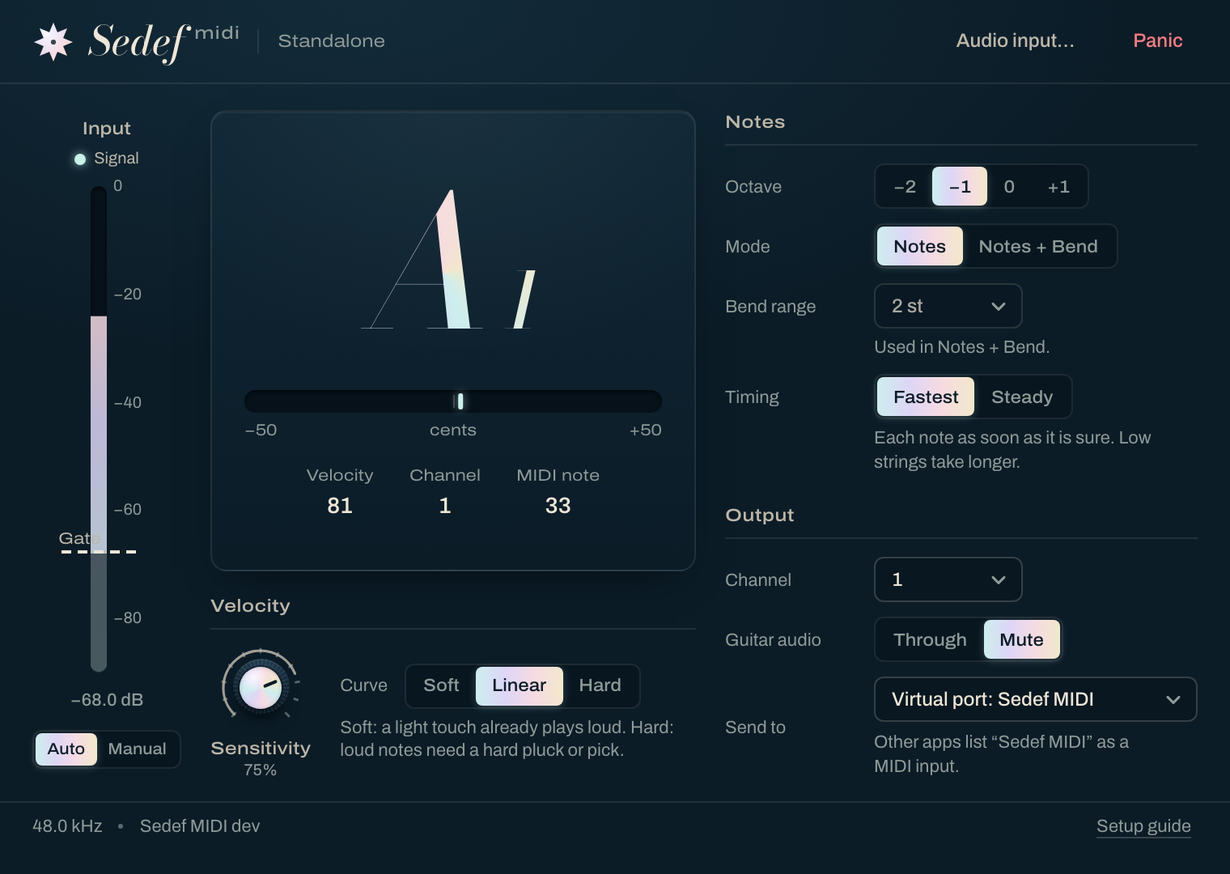
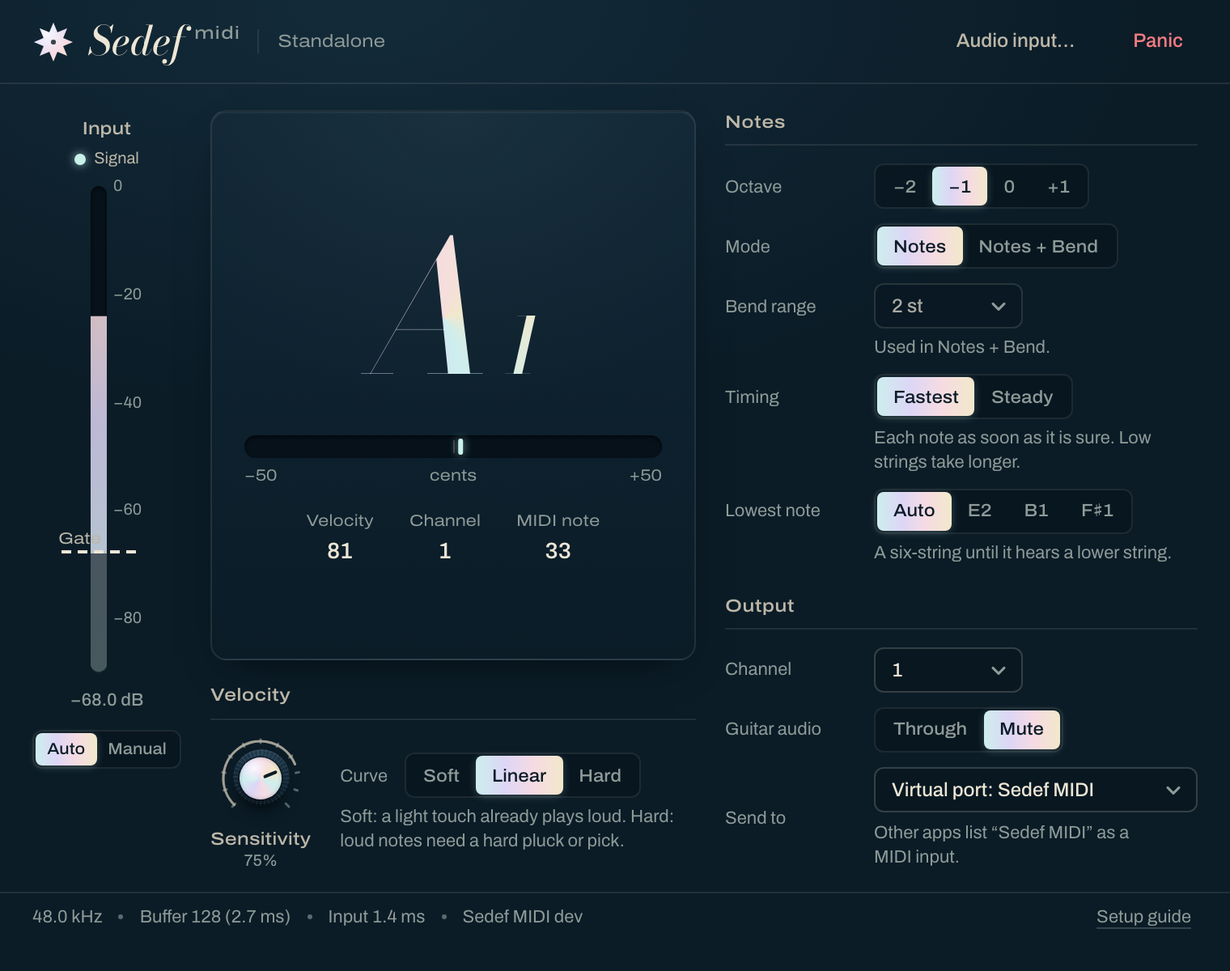
Docs: Sedef MIDI's held notes, bends and slides, low strings and the delay

diff --git a/docs/design/guitar-to-midi.md b/docs/design/guitar-to-midi.md
@@ -775,3 +775,234 @@ strum, median 2; one under 40 ms), none before the first strum, never two at onc
 **Left open:** the first note after Sedef MIDI starts (60 ms, once per session); fretting moves on
 strings still within 10 dB of their attack; and in Steady, a note whose ringing string the finger
 touches before plucking lands up to 16 ms early.
+
+### The first session: a held note, low strings, bends and the delay (2026-11-11)
+
+The musician played 0.6.0's standalone app into a bass instrument and reported, in his order of
+importance: too much delay; no note under a low B; a held note wavers in pitch, like a chorus;
+bends only half work and slides don't. He had sent a screen recording with the instrument's
+sound. In it Sedef MIDI was on Notes + Bend, octave 0, Fastest (read from which segments are
+lit: the labels are too small to read). His recordings stay off the repository.
+
+#### A held note
+
+**What the recording shows.** The instrument's pitch on ten held notes (31 to 83 Hz, the
+instantaneous frequency of their first four partials): a modulation of 3.65 to 3.66 Hz, ±12 to
+14 cents, the same rate at every pitch and the same depth on every partial (a pitch modulation,
+not two detuned voices), undamped for three seconds, and starting again with each note (its
+first peak 70 to 140 ms after the note starts, on about 40 notes). Every note also sits 15 to
+35 cents sharp, and a few start in tune for 50 to 90 ms and then jump there.
+
+**What Sedef MIDI sent.** Notes + Bend sent the tracked pitch's distance from the equal-tempered
+note, every 2 ms, whenever it moved 1.5 cents. On his chromatic DI that is 9629 pitch bends for
+84 notes, 194 a second: each note starts with its own offset (median 7 cents, up to 38: tuning
+and fretting), drifts as it decays, steps by more than 5 cents six times a note (the tracker
+changes the source of its reading once a note holds still), and swings 50 to 75 cents at its end
+when the fretting hand moves on. On his three long notes (2.0 to 2.6 s) the bend, after the
+first 100 ms, has a standard deviation of 1.7 to 3.9 cents and nothing near 3.66 Hz; a perfectly
+steady synthetic string gets one step of 6 to 10 cents about 100 ms in. Short notes started
+again inside a held note, the other suspect, do not occur: Notes mode gives 84 notes for 78, the
+five short ones all a fretting move before a pluck.
+
+**The cause.** A rate that ignores the note and restarts with each note is an oscillator in the
+instrument, not anything in the pitch stream (nothing in Sedef MIDI has a 273 ms clock). What
+fits all of it is an instrument that takes a pitch wheel off centre as a played bend and adds a
+bend and vibrato of its own; Sedef MIDI never left the wheel centred. That cannot be proved
+without the instrument, and does not need to be: a held note has no business sending pitch
+bend, and in Notes mode, the default, none was ever sent.
+
+**The fix** (the class comment in `GuitarToMidi.h` has the rules). A centred bend goes out with
+every note-on, and the wheel stays at exactly the centre while a note is only held. The bend is
+counted from where the note sits, not from equal temperament: the note's centre is its reading
+over its first 30 ms, then follows the string's slow drift at 20 cents a second, within 35 cents
+of the semitone. A bend starts when the pitch has been 25 cents from the centre for 40 ms (or 60
+cents, followed all the way), then follows the string at up to 3000 cents a second, ignoring
+moves of the reading under 3 cents; it ends, exactly centred, back within 10 cents for 60 ms or
+at rest within a fret's tuning of the semitone. The pitch the bend follows is the tracker's
+estimator reading (`MonoTracker::followedHz()`), which has no step when a note holds still.
+
+Why 25 cents: on his chromatic DI, 74 held notes, the pitch is within 1.6 cents of the note's
+centre half of the time, 5.8 cents 90 % and 16.4 cents 99 % of it; 4 % of the notes pass 25
+cents in their first 100 ms and 4 % while held, all of them fretting moves, which the 40 ms and
+the falling level rule out. The drift from the start of a hold to its end is −2.3 cents in the
+median and −10.9 at the 10th percentile, which is what the moving centre is for.
+
+| Notes + Bend, pitch bends off centre | 0.7.0 | Now |
+|---|---:|---:|
+| His chromatic DI (84 notes) | 9629 | 0 |
+| The same, a fourth and a minor sixth lower | | 0 and 6 |
+| His strummed chords (28 notes) | 829 | 0 |
+| Seven piezo DIs, fingerstyle chords (about 400 notes) | 13 169 | 355 |
+| Held synthetic strings, 3 s: drift of 0 and −5 cents/s, tuned −12 and +18 cents, four pitches, three pickups | every one | 0 |
+
+In Notes mode his chromatic DI gives the same events as 0.7.0, byte for byte.
+
+#### Bends and slides
+
+What each does, and why slides are not pitch bend:
+
+| | Notes | Notes + Bend |
+|---|---|---|
+| Held note, narrow vibrato (±15 cents) | note-on, note-off | the same, and a centred bend before the note-on |
+| String bend inside the bend range | the notes it passes | one note; the bend follows, and returns to exactly the centre |
+| String bend past the range | the notes it passes | the next note starts, without a gap |
+| Wide vibrato (±50 cents) | one note | followed |
+| Hammer-on, pull-off | a note | a note |
+| Slide | its frets: the first reached, then only frets held 30 ms, so a fast slide is two notes and a slow one every fret | the same |
+
+Measured on synthetic strings (E2, A2, G3): bends of a semitone in 80 to 600 ms and of a whole
+step in 150 to 600 ms, held and released, are one note each; what sounds is within 27 cents of
+the string (allowing 60 ms), 5.8 cents rms at worst; no message moves the bend more than 6
+cents; a held bend is exact to 3 cents and a released one ends at exactly 0. A whole step in
+80 ms moves too fast to tell from a fret taken at once and comes out as notes. Slides over 2, 5
+and 12 frets at 15 to 120 ms a fret: never two note-ons closer than 25 ms after the first fret,
+the last note always the fret the slide stopped on, no gap.
+
+A fret taken at once is a note in both modes. Turning it into a bend was built and measured: on
+the bass lines 13 % of the notes (later 3 %, with every cue that could be found: the level's dip
+before a pluck, the pick's click, the level's continuity) lost their attack, because a softly
+picked note on the same string looks the same. That is worse than a slide played as notes.
+
+#### Down to F♯1
+
+"A low B gives B, a low A gives nothing" was one constant: `kMinNoteHz`, 60 Hz. Under it, the
+tracker looked no lower than 50 Hz, and the waits that rule out a lower note assumed a
+six-string.
+
+`Settings::lowNote` (the parameter Lowest Note, appended) has three ranges and Automatic:
+
+| Range | Lowest string | Plays down to | The tracker looks down to | Its rumble filter |
+|---|---|---|---|---|
+| E2 | 82.4 Hz | 60 Hz | 50 Hz | 40 Hz |
+| B1 | 61.7 Hz | 50 Hz | 46 Hz | 30 Hz |
+| F♯1 | 46.2 Hz | 39.5 Hz | 38 Hz | 22 Hz |
+
+The E2 range is 0.7.0, exactly. A lower range costs the notes above something, so it is not
+always on: a first reading can name any partial of a low string, so a note above the lowest
+string's octave must wait one period of that string, unless it alone accounts for the signal
+since the pick (99 % of it repeats at the note's period), which a cleanly played note does.
+Three more things were needed, each found on the lowered sets below: a note above the lowest
+string's octave must account for the signal since the pick, not only for its own last period (a
+low string picked again made the tracker read one partial after another for 45 ms); the longer
+period is compared with the note's own on the residual each leaves, the note's period taken
+exactly (a low string whose 4th partial is its strongest repeats 97 % at that partial's
+period); and a low string's 3 ms level swings 10 to 20 dB with every period, which read as a
+mute (his lowered DI: a low F♯ of one second came out as two notes of 14 ms), so a string under
+the low E is as loud as the loudest millisecond of its last period.
+
+**Automatic** (the default) is the E2 range, with the tracker looking down to 38 Hz, until a note
+under the range has sounded for 150 ms; then it is the B1 or the F♯1 range, kept across
+`reset()` and `prepare()` and saved with a host's session. Before it has learned, a note under
+60 Hz needs a third period (two strings ringing together repeat at such a period for a moment:
+two notes of 15 ms on the sloppy lines without it). On a six-string it sends the notes the E2
+range sends, 493 of 494 within 3 ms of where that range puts them, and never widens, on the
+lines, the sloppy lines, the fretted-first runs and the strummed chords.
+
+There is no DI of his low strings, so the material is the suite's lines on strings a fourth lower
+(B1, E2, A2 where a guitar has E2, A2, D3) and a minor seventh lower (F♯1, B1, E2), and his own
+chromatic DI slowed down by a fourth and by a minor sixth (its lowest run then starts on A1 and
+on F♯1), against the six-string bars:
+
+| Set | Range | Notes | Right | Wrong (octave) | Missed | Extra | Under 40 ms |
+|---|---|---:|---:|---:|---:|---:|---:|
+| Bass lines, a fourth lower | B1 | 864 | 100 % | 0 | 0 | 1 | 1 |
+| Sloppy lines, a fourth lower | B1 | 864 | 98.84 % | 3 (0) | 7 | 11 | 11 |
+| Fretted first, a fourth lower | B1 | 312 | 100 % | 0 | 0 | 0 | 0 |
+| From silence, a fourth lower | B1 | 108 | 98.15 % | 0 | 2 | 0 | 0 |
+| Bass lines, a seventh lower | F♯1 | 864 | 99.88 % | 0 | 1 | 0 | 0 |
+| Sloppy lines, a seventh lower | F♯1 | 864 | 98.61 % | 4 (0) | 8 | 17 | 12 |
+| Fretted first, a seventh lower | F♯1 | 312 | 100 % | 0 | 0 | 0 | 0 |
+| From silence, a seventh lower | F♯1 | 108 | 100 % | 0 | 0 | 0 | 0 |
+| Bass lines, a seventh lower | Automatic, from a six-string each time | 864 | 99.77 % | 0 | 2 | 3 | 2 |
+| Sloppy lines, a seventh lower | Automatic, the same | 864 | 98.50 % | 4 (0) | 9 | 18 | 13 |
+| His chromatic DI, a fourth lower, Fastest / Steady | Automatic | 78 | 100 % / 100 % | 0 | 0 | 6 / 2 | 4 / 0 |
+| His chromatic DI, a minor sixth lower, Fastest / Steady | Automatic | 78 | 100 % / 100 % | 0 | 0 | 7 / 3 | 4 / 0 |
+
+(The two notes missed from silence a fourth lower are one note on two pickups: the finger's
+touch squeaks 9 ms before the pluck, and the pick seen there is judged before the pluck's level
+has come. The extra notes on his lowered DI are the fretting moves of the original.) Before:
+nothing under B1 was played, in any setting.
+
+Pick to note-on, a note picked a second time, with a pick and with the fingers, on a bridge and
+a neck pickup, median (and the most), 48 kHz:
+
+| Note | Two periods | E2 range | B1 range | F♯1 range |
+|---|---:|---:|---:|---:|
+| F♯1 | 43.2 ms | | | 47.0 (49.5) |
+| G1 | 40.8 | | | 44.5 (48.0) |
+| G♯1 | 38.5 | | 42.5 (45.0) | 42.5 (45.0) |
+| A1 | 36.4 | | 39.5 (43.0) | 40.0 (43.0) |
+| A♯1 | 34.3 | | 38.0 (41.0) | 37.5 (41.0) |
+| B1 | 32.4 | 35.5 (38.0) | 36.5 (39.0) | 35.5 (39.0) |
+| C2 | 30.6 | 33.5 (37.0) | 34.5 (37.0) | 33.5 (37.0) |
+| C♯2 | 28.9 | 33.0 (35.5) | 33.0 (35.5) | 32.0 (35.5) |
+| D2 | 27.2 | 31.0 (34.0) | 31.0 (34.0) | 30.5 (34.0) |
+| D♯2 | 25.7 | 29.5 (32.5) | 29.0 (31.5) | 29.0 (31.5) |
+| E2 | 24.3 | 27.5 (31.0) | 27.5 (30.0) | 27.5 (30.0) |
+| F♯2 | 21.6 | 25.5 (28.0) | 24.5 (28.0) | 27.0 (27.0) |
+| A2 | 18.2 | 21.5 (24.0) | 21.5 (24.0) | 27.0 (27.0) |
+| B2 | 16.2 | 19.5 (22.0) | 21.5 (22.0) | 22.0 (27.0) |
+| C♯3 | 14.4 | 17.5 (20.0) | 20.0 (21.5) | 20.0 (22.5) |
+| D3 | 13.6 | 17.0 (19.5) | 17.5 (21.0) | 17.5 (21.0) |
+| E3 | 12.1 | 16.0 (18.0) | 16.5 (18.0) | 16.5 (18.0) |
+| G3 to E4 | 10.2 to 6.1 | 16.0 | 16.0 | 16.0 |
+
+So the low ranges cost E2 nothing, the notes from F♯2 to C♯3 up to 5.5 ms (A2 in the F♯1 range),
+and nothing above E3. In the E2 range and in Automatic on a six-string, every figure is 0.7.0's.
+
+Trench shares the tracker. Its new options (`lowestHz`, `rumbleHz`) are off by default and the
+`followedHz()` accessor changes nothing: 137 renders (every factory preset, Trench Mono and Poly
+in four settings on the synthetic DI and seven piezo DIs, and his two DIs in Mono and Poly, two
+settings, alone and through two presets) are byte-identical to main.
+
+#### The delay
+
+His setup, a low E, Fastest, as he ran 0.6.0:
+
+| Part | Before | Now | Whose |
+|---|---:|---:|---|
+| The note's pitch: two periods of the low E, and 3 ms to be sure | 27.5 ms | 27.5 ms | physics, and ours |
+| Sedef MIDI's audio buffer | 11.6 ms (512 samples at 44.1 kHz, the framework's default, each event sent one buffer after its sample) | 2.9 ms (128 samples) | ours |
+| The interface's input latency | 1 to 4 ms | the same, now shown in the app | the interface |
+| The instrument's output buffer and the interface's output | about 12 to 15 ms if it runs at 512 samples too | the same until he lowers it | the instrument |
+| **Pick to MIDI out** | **about 41 ms** | **about 32 ms** | |
+| **Pick to sound** | **about 55 ms** | **about 46 ms; about 37 with the instrument at 128 samples** | |
+
+Per string, pick to MIDI out with a 2 ms interface, before and now (before, the buffer added
+11.6 ms; now 2.9): low F♯ not played, now 52 ms; low B 49 and 41; low E 41 and 32; A2 35 and 26
+(32 in the F♯1 range); D3 31 and 22; G3 and up 30 and 21.
+
+What changed:
+- **The buffer.** The standalone app asks the device for the smallest buffer of at least 2.5 ms
+  (128 samples at 44.1 and 48 kHz) the first time it starts, also after an update from a version
+  that left the default; a size chosen afterwards in Audio input… stays. The window's footer shows
+  the buffer in ms and the device's input latency, and offers the way to a smaller one when the
+  buffer is over 6 ms.
+- **The port router.** A block's events can only go out once the block is in, and MIDI through a
+  port carries no time stamp another app would honour (the framework's `sendMessageNow` has none;
+  the block's last sample is "now"), so an event at offset o of N has already waited N − o. The
+  router used to send it o later (every event one block late, exact spacing). It still does while
+  the block is no longer than 3 ms; a longer block's events are spread over 3 ms, so a 512-sample
+  buffer costs 5.8 + 1.5 ms on average instead of 11.6 (and at most the block). The floor is the
+  rest of the block.
+- **A provisional note-on** (the note sent at the tracker's first reading after the pick, and
+  corrected if wrong) was measured, not built: on the bass lines that reading is right for 56 %
+  of the picks, wrong for 13.2 % (114 of 864), and for the rest there is none before the note is
+  sure anyway; when right it comes 2.0 ms sooner in the median (5.2 at the 90th percentile). On
+  the sloppy lines the same 13.2 % and 2.0 ms; on his DI 3.2 ms sooner on the 23 notes of 78 that
+  have such a reading. Thirteen wrong notes in 100 for 2 ms is not a timing mode worth offering.
+
+**The floor that is left** is two periods of the note (43 ms for a low F♯, 32 for a low B, 24 for
+a low E, 18 for an A, 14 for a D), the 3 to 4 ms the MIDI layer takes to be sure, 16 ms for any
+note above E3 (one period of the low E, to rule out a lower note), and the rest of the audio
+buffer. Playing the line an octave higher with the octave at −2 halves the first part.
+
+**CPU.** The tracker inside Sedef MIDI now keeps periods down to 38 Hz up to date in every
+range: 229 ns per sample (1.1 % of one core at 48 kHz) against 197 before, on the same machine in
+the same hour; `process()` still never allocates.
+
+**Left open:** a hammer-on, a pull-off and a slide cannot be pitch bend (above); a whole-step
+bend faster than about 120 ms comes out as notes; strummed chords give more notes in Automatic
+than in the E2 range (110 against 98 for 144 chords: two strings together repeat at a long
+period), as they are outside the design; a finger's squeak 9 ms before its pluck after a rest
+can lose the note; and Steady's 38 ms cannot hold a note under about B1.

diff --git a/docs/midi.md b/docs/midi.md
@@ -41,15 +41,16 @@ Updates from inside Sedef Amp keep Sedef MIDI when it is installed and leave it 
 | **Input meter and Gate** | The meter shows your guitar's level, and the gate on the same scale: a pluck or pick under the gate never starts a note. **Auto** (default): the gate follows your input's own noise, so it needs no setting at any input level; the dashed line shows where it is. **Manual**: drag the handle to set it yourself. The **Signal** ring over the meter fills and lights while you're above the gate. |
 | **Note** | The note being sent, large enough to read from the guitar, with how far your pitch is from it (±50 cents). The last note stays, unlit, after it ends. |
 | **Octave** | −2, −1 (default), 0 or +1. A bass sounds an octave under a guitar, so −1 puts a guitar line in a bass's register. |
-| **Mode** | *Notes* (default) sends notes only. *Notes + Bend* also sends vibrato and slight bends as pitch bend. |
+| **Mode** | *Notes* (default) sends notes only: a held note is its note-on and its note-off, and a bend or a slide gives the notes it reaches. *Notes + Bend* also moves the pitch wheel when you bend a string or play a wide vibrato; a note you only hold leaves the wheel at its centre ([Bends, slides and held notes](#bends-slides-and-held-notes)). |
 | **Bend range** | In Notes + Bend: must match the bend range set in your instrument (2 semitones in most). |
 | **Timing** | *Fastest* (default) sends each note as soon as it is sure: low strings take longer. *Steady* sends every note 38 ms after you pluck or pick it, so one track delay of −38 ms puts every recorded note where you played it. |
+| **Lowest note** | How low your instrument goes. *Auto* (default) is a six-string guitar until you play a lower string, and then knows it (the app remembers it; a host saves it with the session). *E2*, *B1* and *F♯1* set it yourself: six, seven or eight strings, each with room for a dropped tuning (down to C♯2, G♯1 and E1). A lower range makes a few notes slightly later ([How fast is it](#how-fast-is-it)). |
 | **Velocity: Sensitivity, Curve** | How much the strength of each pluck or pick sets the velocity (0 %: every note at 100). The scale follows how hard you play on your input, about your last 16 notes, so the same playing gets the same velocities whether your interface is set high or low, and the dynamics of a phrase come through. *Soft*: a light touch already plays loud; *Hard*: loud notes need a hard one. |
 | **Channel** | The MIDI channel, 1-16. |
 | **Guitar audio / Side chain** | *Through* lets the guitar's sound pass; *Mute* silences it. The standalone app and the instrument start muted: they are there for the notes. |
 | **Send to / Also send to** | The standalone app: its own port, or a MIDI output. The plug-ins: the host only (default), their own virtual port, or a MIDI output such as an IAC bus. |
 | **Panic** | Ends every note on all 16 channels. |
-| **Audio input…** | Standalone app only: picks the audio interface, input, sample rate and buffer. |
+| **Audio input…** | Standalone app only: picks the audio interface, input, sample rate and buffer. The buffer is part of every note's delay: the bottom of the window shows it in milliseconds, with the interface's own input latency. |
 
 ## Setting up
 
@@ -109,12 +110,40 @@ host at their exact sample.
   uses the classic Windows MIDI interface, through which MIDI Services shows its endpoints to older
   apps; this is not tested yet.
 
+## Bends, slides and held notes
+
+- **A held note is steady.** While you only hold a note, Sedef MIDI sends nothing: not in Notes
+  mode, and not in Notes + Bend, where the pitch wheel stays exactly at its centre. A string a
+  little out of tune, a fret pressed sharp, the pitch sinking as the note fades and a narrow
+  vibrato (under about a quarter of a semitone) are the note, not a bend.
+- **Every note starts from a centred wheel** in Notes + Bend: a centred pitch bend goes out just
+  before each note-on. Some instruments answer a wheel that is off centre with a bend or a
+  vibrato of their own, so a wheel left slightly off makes every note waver; Sedef MIDI never
+  leaves it off. If an instrument still wavers on held notes in Notes mode, where Sedef MIDI
+  sends no pitch bend at all, the vibrato is the instrument's own setting.
+- **A bend** (Notes + Bend) starts once the string has moved a quarter of a semitone and then
+  follows it smoothly, up to the bend range; let the string down and the wheel returns to
+  exactly the centre. A bend past the range starts the next note, without a gap. Very fast
+  bends (a whole step in under about 120 ms) come out as notes.
+- **Wide vibrato** (Notes + Bend) is followed like a bend.
+- **Hammer-ons, pull-offs and slides are notes in both modes**: each fret you reach is a new
+  note-on. A fast slide gives the fret it starts on, the first fret it reaches and the fret it
+  stops on, not a burst of short notes; a slow one (more than about 50 ms a fret) gives every
+  fret. Nothing in a guitar's signal tells a fret taken without picking from a softly picked
+  note reliably, so Sedef MIDI does not turn them into pitch bend.
+- **In Notes mode** a string bend gives the notes it passes, a semitone at a time.
+
 ## Playing tips
 
 - **One note at a time.** Damp the strings you aren't playing. A string left ringing under the
   next note is usually fine when the new note is clearly louder; two strings at a similar level
   (a chord, or fingerstyle with strings ringing into each other) give short wrong notes between
   the right ones.
+- **Seven and eight strings, low tunings.** Leave **Lowest note** on Auto and play: the first
+  note under a guitar's range comes a little later than the ones after it (Sedef MIDI makes
+  sure it is a string and not two notes ringing together), and from then on the low strings
+  are tracked as fast as their pitch allows. Low notes are slow by nature: a pitch takes two of
+  its periods to tell, and a low F♯ swings 46 times a second.
 - **Play higher with −2.** A bass line played higher on the neck with the octave at −2 is recognised
   faster than the same line on the low strings with −1 (see the latency table).
 - **Any input level works.** Sedef MIDI works the same with your interface's peaks anywhere from
@@ -144,16 +173,40 @@ host at their exact sample.
 
 ## How fast is it
 
-From the pluck or pick to the note, at 48 kHz, plus your audio buffer (for example 5.3 ms at 256 samples):
+From the pluck or pick to the note, in Fastest:
 
-| String | E2 | A2 | D3 | G3 and up |
-|---|---:|---:|---:|---:|
-| Fastest | 28 ms | 22 ms | 17 ms | 16 ms |
-| Steady | 38 ms | 38 ms | 38 ms | 38 ms |
+| Note | F♯1 | A1 | B1 | D2 | E2 | A2 | D3 | G3 and up |
+|---|---:|---:|---:|---:|---:|---:|---:|---:|
+| Six strings (E2, or Auto on a guitar) | | | | 31 ms | 28 ms | 22 ms | 17 ms | 16 ms |
+| Seven strings (B1) | | 40 ms | 37 ms | 31 ms | 28 ms | 22 ms | 18 ms | 16 ms |
+| Eight strings (F♯1) | 47 ms | 40 ms | 36 ms | 31 ms | 28 ms | 27 ms | 18 ms | 16 ms |
 
-A low note needs about two of its periods before its pitch is sure; above A3, Sedef MIDI waits one
-period of the low E (16 ms) to rule out a lower note under it. See
-[the design](design/guitar-to-midi.md#as-built) for the measurements.
+In Steady every note comes 38 ms after you play it (a note under about B1 cannot: it comes as
+soon as it is sure).
+
+**What the delay is made of.** A note cannot be named before two of its periods have passed:
+43 ms for a low F♯, 32 ms for a low B, 24 ms for a low E, 18 ms for an A. Sedef MIDI adds 2 to
+4 ms to be sure of it, and above A3 it waits one period of the low E (16 ms) to rule out a lower
+note under it. With a lower range, the notes between the lowest string's octave and about 150 Hz
+wait a little longer for the same reason (the F♯2 to B2 column above, in the eight-string row).
+Sending a note before its pitch is known and correcting it afterwards was measured and left
+out: it would gain 2 ms on a typical note and get 13 notes in 100 wrong first.
+
+**The rest is buffers, and you can shorten them.**
+
+- *Sedef MIDI's audio buffer* (the standalone app): a note goes out when the buffer it was
+  played in arrives. The app now asks your interface for about 3 ms (128 samples at 44.1 or
+  48 kHz) the first time it starts; 0.6.0 and 0.7.0 ran at the system's usual 512 samples,
+  11.6 ms at 44.1 kHz. The bottom of the window shows the buffer in milliseconds and your
+  interface's own input latency, and tells you when the buffer is long; **Audio input…** changes
+  it. Up to 3 ms, notes keep their exact spacing one buffer late; with a longer buffer each note
+  goes out at most 3 ms after its buffer arrives.
+- *In a host*, the plug-in's notes sit at their exact sample, and the host's buffer is what you
+  hear late.
+- *The instrument you play* has an output buffer of its own, usually larger than it needs to
+  be: set it as low as it plays cleanly (128 or 64 samples).
+
+See [the design](design/guitar-to-midi.md#as-built) for the measurements.
 
 ## If something doesn't work
 
@@ -167,6 +220,14 @@ period of the low E (16 ms) to rule out a lower note under it. See
 - **The note display moves, the instrument stays silent:** the MIDI doesn't reach it. Check that
   the instrument app lists "Sedef MIDI" as an input, that its channel matches Sedef MIDI's, or in
   Logic that the instrument track takes **MIDI From** the Sedef MIDI (Instrument) track.
+- **A held note wavers in pitch on the instrument:** see
+  [Bends, slides and held notes](#bends-slides-and-held-notes). In Notes mode Sedef MIDI sends no
+  pitch bend; in Notes + Bend it keeps the wheel centred while a note is held (0.6.0 and 0.7.0
+  sent every small move of the string as pitch bend).
+- **Notes come late:** look at the buffer at the bottom of the app's window, and at the buffer
+  of the instrument you play ([How fast is it](#how-fast-is-it)).
+- **A low string gives no note, or a higher one:** set **Lowest note** to your instrument (B1
+  for seven strings, F♯1 for eight). On E2, strings under a guitar's are not played.
 - **Wrong, missing or extra notes:** see the playing tips above. Reports help most with a short
   recording of the dry DI and the MIDI it gave:
   [open an issue](https://github.com/mr-kaynak/sedef-amp/issues).

diff --git a/CHANGELOG.md b/CHANGELOG.md
@@ -6,6 +6,39 @@ All notable changes to this project are documented here. The format follows
 
 ## [Unreleased]
 
+Sedef MIDI after its first session with a player: a held note is steady, low strings down to F♯1
+are tracked, bends are smooth, and notes come sooner.
+
+### Added
+
+- **Sedef MIDI: Lowest note** (Auto, E2, B1, F♯1). Seven- and eight-string guitars and low
+  tunings are tracked down to F♯1 (and to E1 in a dropped tuning); before, nothing under a low B
+  was played. Auto is a six-string guitar, exactly as before, until you play a lower string, and
+  then keeps the wider range (a host saves it with the session). A low note takes two of its
+  periods to tell: 47 ms for a low F♯, 36 for a low B.
+- **Sedef MIDI shows what the audio buffer costs**: the buffer in milliseconds and the
+  interface's input latency at the bottom of the standalone app's window, with a way to a
+  smaller buffer when it is long.
+
+### Changed
+
+- **Sedef MIDI: a held note sends no pitch bend.** In Notes + Bend the pitch wheel now stays at
+  exactly its centre while you only hold a note, and a centred bend goes out with every
+  note-on. Before, every small move of the string (its tuning, its drift as it fades) went out
+  as pitch bend, about 190 messages a second, which made some instruments waver on every note.
+  A bend starts once the string has moved a quarter of a semitone, follows it smoothly, and
+  returns to exactly the centre. Notes mode is unchanged: it never sent pitch bend.
+- **Sedef MIDI: a string bent across a semitone stays one note** in Notes + Bend, up to the bend
+  range; past it the next note starts without a gap.
+- **Sedef MIDI: a slide is not a burst of notes.** A fast slide gives the first fret it reaches
+  and the fret it stops on; a slow one still gives every fret.
+- **Sedef MIDI's standalone app starts with a 3 ms audio buffer** (128 samples at 44.1 or 48 kHz)
+  instead of the system's usual 512: every note comes about 9 ms sooner. It does this once, also
+  after an update; a size you pick afterwards in Audio input… stays.
+- **Sedef MIDI's notes leave the MIDI port sooner with a long buffer**: at most 3 ms after their
+  buffer arrives, not a whole buffer after their sample.
+- Sedef MIDI's window is a little taller, for the new control.
+
 ## [0.7.0] - 2026-11-10
 
 The Pedals page is redrawn: every pedal has its own enclosure and a full board fits on one
